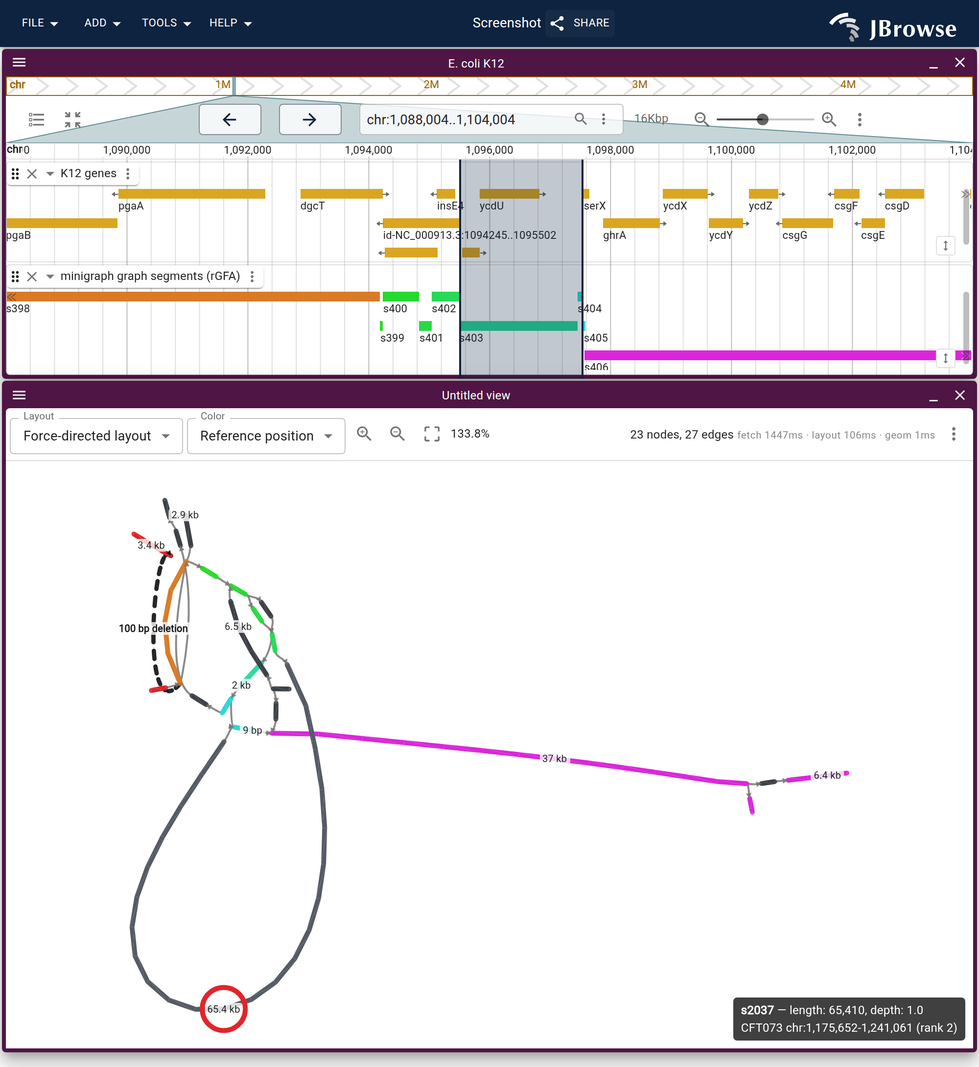
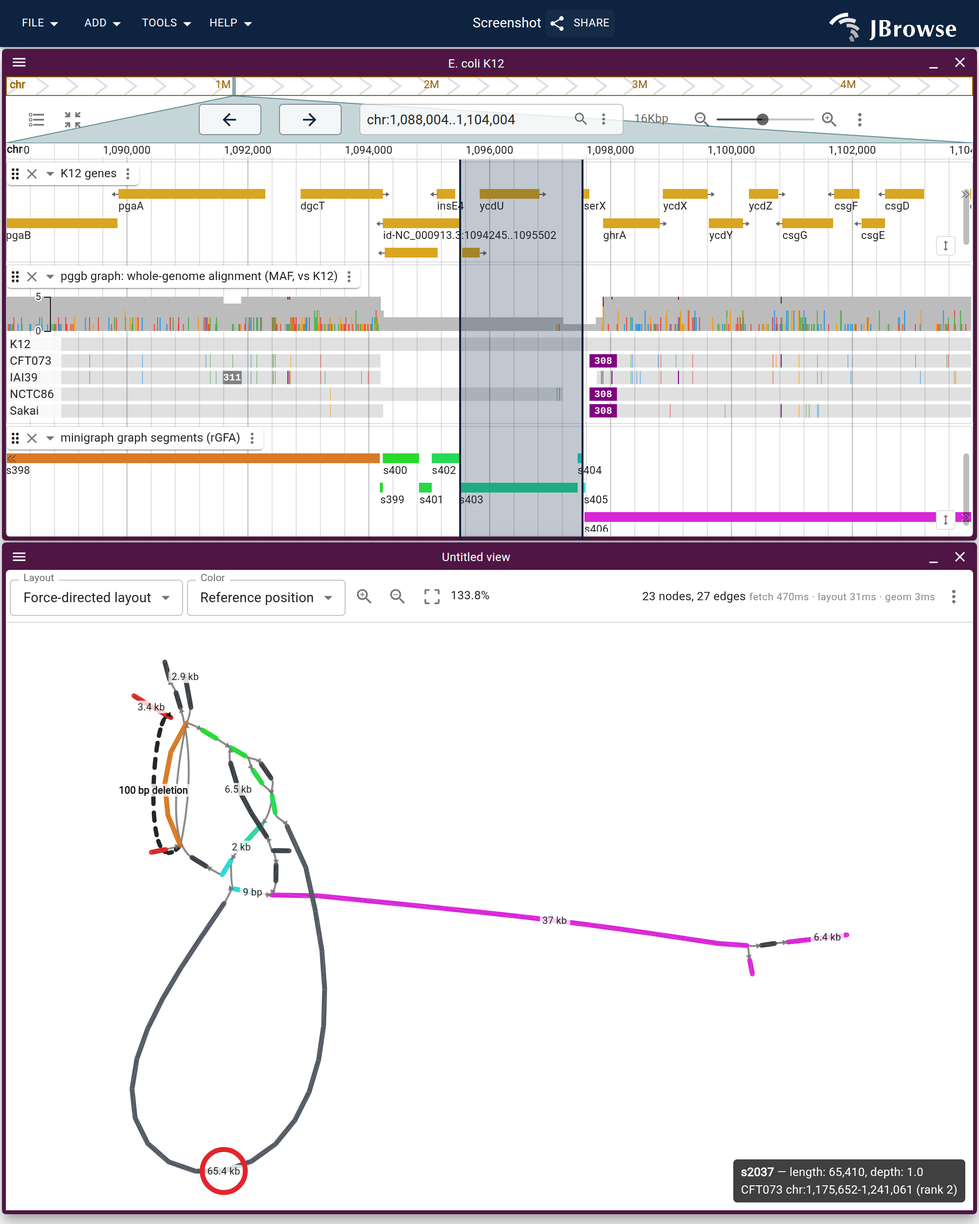
docs(figures): put the strain alignment beside the graph's claim in rgfa_hover_sync
Reviewer: "add maf track if it helps clarify this figure". It does. The
band the hover draws is the graph asserting that 65.4 kb of CFT073
attaches across 2.1 kb of K12, and pggb's whole-genome alignment of the
same five strains states the same event base by base from the other
side: over chr:1,094,245-1,097,564 the MAF blocks hold only K12 and
NCTC86, so CFT073, IAI39 and Sakai have no aligned bases across the band
while NCTC86 aligns straight through, and all five resume just past it
with a 308 bp insertion on three of them. Checked with tabix against the
hosted file, not read off the picture.

The lane is pggb's MAF on a figure drawn from the minigraph rGFA, which
is fine and is said in the spec: the alignment is between the strains
and does not depend on which graph is drawn. Same five rows in the same
order as the other E. coli figures.

Claude-Session: https://claude.ai/code/session_01TcfdgrcPWPN7HSGHfcRjTg

Changed region(s): [[0.0, 0.0, 1.0, 0.9982], [0.527, 0.7174, 0.868, 0.7798]]

diff --git a/website/src/lib/galleryLinks.generated.ts b/website/src/lib/galleryLinks.generated.ts
@@ -189,7 +189,7 @@ export const specSessionUrls: Record<string, string> = {
   "cancer_sv/multihop_split_view_steps": "?config=https%3A%2F%2Fjbrowse.org%2Fdemos%2Fcancer_sv%2Fconfig.json&session=spec-%7B%22views%22%3A%5B%7B%22type%22%3A%22LinearGenomeView%22%2C%22assembly%22%3A%22hg38%22%2C%22loc%22%3A%22chr3%3A25%2C357%2C600-25%2C361%2C000%22%2C%22tracks%22%3A%5B%7B%22trackId%22%3A%22ncbi_refseq_hg38%22%2C%22geneGlyphMode%22%3A%22longestCoding%22%2C%22height%22%3A60%7D%2C%7B%22trackId%22%3A%22COLO829_tumor_ont%22%2C%22showSoftClipping%22%3Atrue%2C%22height%22%3A150%2C%22featureHeight%22%3A1%7D%5D%7D%5D%7D&sessionName=Screenshot",
   "cancer_sv/derivative_autogenerated": "?config=https%3A%2F%2Fjbrowse.org%2Fdemos%2Fcancer_sv%2Fconfig.json&session=spec-%7B%22views%22%3A%5B%7B%22type%22%3A%22LinearGenomeView%22%2C%22assembly%22%3A%22hg38%22%2C%22loc%22%3A%22chr3%3A25%2C357%2C600-25%2C361%2C000%22%2C%22tracks%22%3A%5B%7B%22trackId%22%3A%22ncbi_refseq_hg38%22%2C%22geneGlyphMode%22%3A%22longestCoding%22%2C%22height%22%3A60%7D%2C%7B%22trackId%22%3A%22COLO829_tumor_ont%22%2C%22showSoftClipping%22%3Atrue%2C%22height%22%3A240%2C%22featureHeight%22%3A1%7D%5D%7D%5D%7D&sessionName=Screenshot",
   "cancer_sv/foldback_reconstruction": "?config=https%3A%2F%2Fjbrowse.org%2Fdemos%2Fcancer_sv%2Fconfig.json&session=spec-%7B%22views%22%3A%5B%7B%22type%22%3A%22LinearGenomeView%22%2C%22assembly%22%3A%22hg38%22%2C%22loc%22%3A%22chr9%3A28%2C030%2C000-28%2C036%2C000%22%2C%22tracks%22%3A%5B%7B%22trackId%22%3A%22ncbi_refseq_hg38%22%2C%22geneGlyphMode%22%3A%22longestCoding%22%2C%22height%22%3A60%7D%2C%7B%22trackId%22%3A%22COLO829_tumor_ont%22%2C%22showSoftClipping%22%3Atrue%2C%22height%22%3A260%2C%22featureHeight%22%3A1%7D%5D%7D%5D%7D&sessionName=Screenshot",
-  "cancer_sv/derivative_synteny": "?config=https%3A%2F%2Fjbrowse.org%2Fdemos%2Fcancer_sv%2Fconfig.json&session=spec-%7B%22sessionTracks%22%3A%5B%7B%22type%22%3A%22FeatureTrack%22%2C%22trackId%22%3A%22der3_genes%22%2C%22name%22%3A%22Reference%20genes%20projected%20onto%20the%20derivative%22%2C%22assemblyNames%22%3A%5B%22der3_RARB_BICC1_TRHDE%22%5D%2C%22adapter%22%3A%7B%22type%22%3A%22FromConfigAdapter%22%2C%22features%22%3A%5B%7B%22uniqueId%22%3A%22RARB.seg0%22%2C%22refName%22%3A%22der3_RARB_BICC1_TRHDE%22%2C%22start%22%3A0%2C%22end%22%3A32732%2C%22strand%22%3A1%2C%22type%22%3A%22gene%22%2C%22name%22%3A%22RARB%22%2C%22subfeatures%22%3A%5B%7B%22uniqueId%22%3A%22NM_001290216.3.seg0%22%2C%22refName%22%3A%22der3_RARB_BICC1_TRHDE%22%2C%22start%22%3A0%2C%22end%22%3A32732%2C%22strand%22%3A1%2C%22type%22%3A%22transcript%22%2C%22name%22%3A%22NM_001290216.3%22%7D%2C%7B%22uniqueId%22%3A%22NM_001290300.2.seg0%22%2C%22refName%22%3A%22der3_RARB_BICC1_TRHDE%22%2C%22start%22%3A13980%2C%22end%22%3A32732%2C%22strand%22%3A1%2C%22type%22%3A%22transcript%22%2C%22name%22%3A%22NM_001290300.2%22%2C%22subfeatures%22%3A%5B%7B%22uniqueId%22%3A%22exon%3ANM_001290300.2.1.seg0%22%2C%22refName%22%3A%22der3_RARB_BICC1_TRHDE%22%2C%22start%22%3A13980%2C%22end%22%3A14070%2C%22strand%22%3A1%2C%22type%22%3A%22exon%22%7D%2C%7B%22uniqueId%22%3A%22CDS%3ANM_001290300.2.1.seg0%22%2C%22refName%22%3A%22der3_RARB_BICC1_TRHDE%22%2C%22start%22%3A14042%2C%22end%22%3A14070%2C%22strand%22%3A1%2C%22type%22%3A%22CDS%22%7D%2C%7B%22uniqueId%22%3A%22start_codon%3ANM_001290300.2.1.seg0%22%2C%22refName%22%3A%22der3_RARB_BICC1_TRHDE%22%2C%22start%22%3A14042%2C%22end%22%3A14045%2C%22strand%22%3A1%2C%22type%22%3A%22start_codon%22%7D%5D%7D%5D%7D%2C%7B%22uniqueId%22%3A%22LOC124906342.seg0%22%2C%22refName%22%3A%22der3_RARB_BICC1_TRHDE%22%2C%22start%22%3A9171%2C%22end%22%3A9237%2C%22strand%22%3A1%2C%22type%22%3A%22gene%22%2C%22name%22%3A%22LOC124906342%22%2C%22subfeatures%22%3A%5B%7B%22uniqueId%22%3A%22XR_007096298.1.seg0%22%2C%22refName%22%3A%22der3_RARB_BICC1_TRHDE%22%2C%22start%22%3A9171%2C%22end%22%3A9237%2C%22strand%22%3A1%2C%22type%22%3A%22transcript%22%2C%22name%22%3A%22XR_007096298.1%22%2C%22subfeatures%22%3A%5B%7B%22uniqueId%22%3A%22exon%3AXR_007096298.1.1.seg0%22%2C%22refName%22%3A%22der3_RARB_BICC1_TRHDE%22%2C%22start%22%3A9171%2C%22end%22%3A9237%2C%22strand%22%3A1%2C%22type%22%3A%22exon%22%7D%5D%7D%5D%7D%2C%7B%22uniqueId%22%3A%22BICC1.seg1%22%2C%22refName%22%3A%22der3_RARB_BICC1_TRHDE%22%2C%22start%22%3A32732%2C%22end%22%3A32931%2C%22strand%22%3A1%2C%22type%22%3A%22gene%22%2C%22name%22%3A%22BICC1%22%2C%22subfeatures%22%3A%5B%7B%22uniqueId%22%3A%22XM_047425780.1.seg1%22%2C%22refName%22%3A%22der3_RARB_BICC1_TRHDE%22%2C%22start%22%3A32732%2C%22end%22%3A32931%2C%22strand%22%3A1%2C%22type%22%3A%22transcript%22%2C%22name%22%3A%22XM_047425780.1%22%7D%5D%7D%2C%7B%22uniqueId%22%3A%22FAM133CP.seg1%22%2C%22refName%22%3A%22der3_RARB_BICC1_TRHDE%22%2C%22start%22%3A32732%2C%22end%22%3A32803%2C%22strand%22%3A1%2C%22type%22%3A%22gene%22%2C%22name%22%3A%22FAM133CP%22%2C%22subfeatures%22%3A%5B%7B%22uniqueId%22%3A%22NR_027508.1.seg1%22%2C%22refName%22%3A%22der3_RARB_BICC1_TRHDE%22%2C%22start%22%3A32732%2C%22end%22%3A32803%2C%22strand%22%3A1%2C%22type%22%3A%22transcript%22%2C%22name%22%3A%22NR_027508.1%22%2C%22subfeatures%22%3A%5B%7B%22uniqueId%22%3A%22exon%3ANR_027508.1.1.seg1%22%2C%22refName%22%3A%22der3_RARB_BICC1_TRHDE%22%2C%22start%22%3A32732%2C%22end%22%3A32803%2C%22strand%22%3A1%2C%22type%22%3A%22exon%22%7D%5D%7D%5D%7D%2C%7B%22uniqueId%22%3A%22TRHDE.seg2%22%2C%22refName%22%3A%22der3_RARB_BICC1_TRHDE%22%2C%22start%22%3A32932%2C%22end%22%3A33115%2C%22strand%22%3A-1%2C%22type%22%3A%22gene%22%2C%22name%22%3A%22TRHDE%22%2C%22subfeatures%22%3A%5B%7B%22uniqueId%22%3A%22XM_017019244.2.seg2%22%2C%22refName%22%3A%22der3_RARB_BICC1_TRHDE%22%2C%22start%22%3A32932%2C%22end%22%3A33115%2C%22strand%22%3A-1%2C%22type%22%3A%22transcript%22%2C%22name%22%3A%22XM_017019244.2%22%7D%2C%7B%22uniqueId%22%3A%22XM_005268819.6.seg2%22%2C%22refName%22%3A%22der3_RARB_BICC1_TRHDE%22%2C%22start%22%3A32932%2C%22end%22%3A33115%2C%22strand%22%3A-1%2C%22type%22%3A%22transcript%22%2C%22name%22%3A%22XM_005268819.6%22%2C%22subfeatures%22%3A%5B%7B%22uniqueId%22%3A%22exon%3AXM_005268819.6.1.seg2%22%2C%22refName%22%3A%22der3_RARB_BICC1_TRHDE%22%2C%22start%22%3A32932%2C%22end%22%3A33115%2C%22strand%22%3A-1%2C%22type%22%3A%22exon%22%7D%2C%7B%22uniqueId%22%3A%22CDS%3AXM_005268819.6.1.seg2%22%2C%22refName%22%3A%22der3_RARB_BICC1_TRHDE%22%2C%22start%22%3A32932%2C%22end%22%3A33115%2C%22strand%22%3A-1%2C%22type%22%3A%22CDS%22%7D%5D%7D%5D%7D%2C%7B%22uniqueId%22%3A%22TRHDE-AS1.seg2%22%2C%22refName%22%3A%22der3_RARB_BICC1_TRHDE%22%2C%22start%22%3A32932%2C%22end%22%3A33115%2C%22strand%22%3A1%2C%22type%22%3A%22gene%22%2C%22name%22%3A%22TRHDE-AS1%22%2C%22subfeatures%22%3A%5B%7B%22uniqueId%22%3A%22NR_026837.1.seg2%22%2C%22refName%22%3A%22der3_RARB_BICC1_TRHDE%22%2C%22start%22%3A32932%2C%22end%22%3A33115%2C%22strand%22%3A1%2C%22type%22%3A%22transcript%22%2C%22name%22%3A%22NR_026837.1%22%2C%22subfeatures%22%3A%5B%7B%22uniqueId%22%3A%22exon%3ANR_026837.1.1.seg2%22%2C%22refName%22%3A%22der3_RARB_BICC1_TRHDE%22%2C%22start%22%3A32932%2C%22end%22%3A33115%2C%22strand%22%3A1%2C%22type%22%3A%22exon%22%7D%5D%7D%5D%7D%2C%7B%22uniqueId%22%3A%22RARB.seg3%22%2C%22refName%22%3A%22der3_RARB_BICC1_TRHDE%22%2C%22start%22%3A33126%2C%22end%22%3A39549%2C%22strand%22%3A-1%2C%22type%22%3A%22gene%22%2C%22name%22%3A%22RARB%22%2C%22subfeatures%22%3A%5B%7B%22uniqueId%22%3A%22NM_001290216.3.seg3%22%2C%22refName%22%3A%22der3_RARB_BICC1_TRHDE%22%2C%22start%22%3A33126%2C%22end%22%3A39549%2C%22strand%22%3A-1%2C%22type%22%3A%22transcript%22%2C%22name%22%3A%22NM_001290216.3%22%7D%5D%7D%5D%7D%7D%5D%2C%22views%22%3A%5B%7B%22type%22%3A%22LinearSyntenyView%22%2C%22displayName%22%3A%22Reconstructed%20derivative%20allele%20vs%20hg38%22%2C%22views%22%3A%5B%7B%22assembly%22%3A%22hg38%22%2C%22loc%22%3A%22chr3%3A25325000-25361000%20chr10%3A58716500-58718500%20chr12%3A72272000-72274500%22%2C%22tracks%22%3A%5B%7B%22trackId%22%3A%22ncbi_refseq_hg38%22%2C%22geneGlyphMode%22%3A%22longestCoding%22%2C%22height%22%3A95%7D%5D%7D%2C%7B%22assembly%22%3A%22der3_RARB_BICC1_TRHDE%22%2C%22loc%22%3A%22der3_RARB_BICC1_TRHDE%3A1-39%2C549%22%2C%22tracks%22%3A%5B%22der3_segments%22%2C%7B%22trackId%22%3A%22der3_genes%22%2C%22geneGlyphMode%22%3A%22longestCoding%22%2C%22height%22%3A220%7D%2C%7B%22trackId%22%3A%22reads_vs_der3%22%2C%22height%22%3A290%2C%22featureHeight%22%3A5%7D%5D%7D%5D%2C%22tracks%22%3A%5B%5B%22der3_vs_hg38%22%5D%5D%2C%22drawCurves%22%3Atrue%2C%22levelHeights%22%3A%5B200%5D%7D%5D%7D&sessionName=Screenshot",
+  "cancer_sv/derivative_synteny": "?config=https%3A%2F%2Fjbrowse.org%2Fdemos%2Fcancer_sv%2Fconfig.json&session=spec-%7B%22sessionTracks%22%3A%5B%7B%22type%22%3A%22FeatureTrack%22%2C%22trackId%22%3A%22der3_genes%22%2C%22name%22%3A%22Reference%20genes%20projected%20onto%20the%20derivative%22%2C%22assemblyNames%22%3A%5B%22der3_RARB_BICC1_TRHDE%22%5D%2C%22adapter%22%3A%7B%22type%22%3A%22FromConfigAdapter%22%2C%22features%22%3A%5B%7B%22uniqueId%22%3A%22RARB.seg0%22%2C%22refName%22%3A%22der3_RARB_BICC1_TRHDE%22%2C%22start%22%3A0%2C%22end%22%3A32732%2C%22strand%22%3A1%2C%22type%22%3A%22gene%22%2C%22name%22%3A%22RARB%22%2C%22subfeatures%22%3A%5B%7B%22uniqueId%22%3A%22NM_001290216.3.seg0%22%2C%22refName%22%3A%22der3_RARB_BICC1_TRHDE%22%2C%22start%22%3A0%2C%22end%22%3A32732%2C%22strand%22%3A1%2C%22type%22%3A%22transcript%22%2C%22name%22%3A%22NM_001290216.3%22%7D%2C%7B%22uniqueId%22%3A%22NM_001290300.2.seg0%22%2C%22refName%22%3A%22der3_RARB_BICC1_TRHDE%22%2C%22start%22%3A13980%2C%22end%22%3A32732%2C%22strand%22%3A1%2C%22type%22%3A%22transcript%22%2C%22name%22%3A%22NM_001290300.2%22%2C%22subfeatures%22%3A%5B%7B%22uniqueId%22%3A%22exon%3ANM_001290300.2.1.seg0%22%2C%22refName%22%3A%22der3_RARB_BICC1_TRHDE%22%2C%22start%22%3A13980%2C%22end%22%3A14070%2C%22strand%22%3A1%2C%22type%22%3A%22exon%22%7D%2C%7B%22uniqueId%22%3A%22CDS%3ANM_001290300.2.1.seg0%22%2C%22refName%22%3A%22der3_RARB_BICC1_TRHDE%22%2C%22start%22%3A14042%2C%22end%22%3A14070%2C%22strand%22%3A1%2C%22type%22%3A%22CDS%22%7D%2C%7B%22uniqueId%22%3A%22start_codon%3ANM_001290300.2.1.seg0%22%2C%22refName%22%3A%22der3_RARB_BICC1_TRHDE%22%2C%22start%22%3A14042%2C%22end%22%3A14045%2C%22strand%22%3A1%2C%22type%22%3A%22start_codon%22%7D%5D%7D%5D%7D%2C%7B%22uniqueId%22%3A%22LOC124906342.seg0%22%2C%22refName%22%3A%22der3_RARB_BICC1_TRHDE%22%2C%22start%22%3A9171%2C%22end%22%3A9237%2C%22strand%22%3A1%2C%22type%22%3A%22gene%22%2C%22name%22%3A%22LOC124906342%22%2C%22subfeatures%22%3A%5B%7B%22uniqueId%22%3A%22XR_007096298.1.seg0%22%2C%22refName%22%3A%22der3_RARB_BICC1_TRHDE%22%2C%22start%22%3A9171%2C%22end%22%3A9237%2C%22strand%22%3A1%2C%22type%22%3A%22transcript%22%2C%22name%22%3A%22XR_007096298.1%22%2C%22subfeatures%22%3A%5B%7B%22uniqueId%22%3A%22exon%3AXR_007096298.1.1.seg0%22%2C%22refName%22%3A%22der3_RARB_BICC1_TRHDE%22%2C%22start%22%3A9171%2C%22end%22%3A9237%2C%22strand%22%3A1%2C%22type%22%3A%22exon%22%7D%5D%7D%5D%7D%2C%7B%22uniqueId%22%3A%22BICC1.seg1%22%2C%22refName%22%3A%22der3_RARB_BICC1_TRHDE%22%2C%22start%22%3A32732%2C%22end%22%3A32931%2C%22strand%22%3A1%2C%22type%22%3A%22gene%22%2C%22name%22%3A%22BICC1%22%2C%22subfeatures%22%3A%5B%7B%22uniqueId%22%3A%22XM_047425780.1.seg1%22%2C%22refName%22%3A%22der3_RARB_BICC1_TRHDE%22%2C%22start%22%3A32732%2C%22end%22%3A32931%2C%22strand%22%3A1%2C%22type%22%3A%22transcript%22%2C%22name%22%3A%22XM_047425780.1%22%7D%5D%7D%2C%7B%22uniqueId%22%3A%22FAM133CP.seg1%22%2C%22refName%22%3A%22der3_RARB_BICC1_TRHDE%22%2C%22start%22%3A32732%2C%22end%22%3A32803%2C%22strand%22%3A1%2C%22type%22%3A%22gene%22%2C%22name%22%3A%22FAM133CP%22%2C%22subfeatures%22%3A%5B%7B%22uniqueId%22%3A%22NR_027508.1.seg1%22%2C%22refName%22%3A%22der3_RARB_BICC1_TRHDE%22%2C%22start%22%3A32732%2C%22end%22%3A32803%2C%22strand%22%3A1%2C%22type%22%3A%22transcript%22%2C%22name%22%3A%22NR_027508.1%22%2C%22subfeatures%22%3A%5B%7B%22uniqueId%22%3A%22exon%3ANR_027508.1.1.seg1%22%2C%22refName%22%3A%22der3_RARB_BICC1_TRHDE%22%2C%22start%22%3A32732%2C%22end%22%3A32803%2C%22strand%22%3A1%2C%22type%22%3A%22exon%22%7D%5D%7D%5D%7D%2C%7B%22uniqueId%22%3A%22TRHDE.seg2%22%2C%22refName%22%3A%22der3_RARB_BICC1_TRHDE%22%2C%22start%22%3A32932%2C%22end%22%3A33115%2C%22strand%22%3A-1%2C%22type%22%3A%22gene%22%2C%22name%22%3A%22TRHDE%22%2C%22subfeatures%22%3A%5B%7B%22uniqueId%22%3A%22XM_017019244.2.seg2%22%2C%22refName%22%3A%22der3_RARB_BICC1_TRHDE%22%2C%22start%22%3A32932%2C%22end%22%3A33115%2C%22strand%22%3A-1%2C%22type%22%3A%22transcript%22%2C%22name%22%3A%22XM_017019244.2%22%7D%2C%7B%22uniqueId%22%3A%22XM_005268819.6.seg2%22%2C%22refName%22%3A%22der3_RARB_BICC1_TRHDE%22%2C%22start%22%3A32932%2C%22end%22%3A33115%2C%22strand%22%3A-1%2C%22type%22%3A%22transcript%22%2C%22name%22%3A%22XM_005268819.6%22%2C%22subfeatures%22%3A%5B%7B%22uniqueId%22%3A%22exon%3AXM_005268819.6.1.seg2%22%2C%22refName%22%3A%22der3_RARB_BICC1_TRHDE%22%2C%22start%22%3A32932%2C%22end%22%3A33115%2C%22strand%22%3A-1%2C%22type%22%3A%22exon%22%7D%2C%7B%22uniqueId%22%3A%22CDS%3AXM_005268819.6.1.seg2%22%2C%22refName%22%3A%22der3_RARB_BICC1_TRHDE%22%2C%22start%22%3A32932%2C%22end%22%3A33115%2C%22strand%22%3A-1%2C%22type%22%3A%22CDS%22%7D%5D%7D%5D%7D%2C%7B%22uniqueId%22%3A%22TRHDE-AS1.seg2%22%2C%22refName%22%3A%22der3_RARB_BICC1_TRHDE%22%2C%22start%22%3A32932%2C%22end%22%3A33115%2C%22strand%22%3A1%2C%22type%22%3A%22gene%22%2C%22name%22%3A%22TRHDE-AS1%22%2C%22subfeatures%22%3A%5B%7B%22uniqueId%22%3A%22NR_026837.1.seg2%22%2C%22refName%22%3A%22der3_RARB_BICC1_TRHDE%22%2C%22start%22%3A32932%2C%22end%22%3A33115%2C%22strand%22%3A1%2C%22type%22%3A%22transcript%22%2C%22name%22%3A%22NR_026837.1%22%2C%22subfeatures%22%3A%5B%7B%22uniqueId%22%3A%22exon%3ANR_026837.1.1.seg2%22%2C%22refName%22%3A%22der3_RARB_BICC1_TRHDE%22%2C%22start%22%3A32932%2C%22end%22%3A33115%2C%22strand%22%3A1%2C%22type%22%3A%22exon%22%7D%5D%7D%5D%7D%2C%7B%22uniqueId%22%3A%22RARB.seg3%22%2C%22refName%22%3A%22der3_RARB_BICC1_TRHDE%22%2C%22start%22%3A33126%2C%22end%22%3A39549%2C%22strand%22%3A-1%2C%22type%22%3A%22gene%22%2C%22name%22%3A%22RARB%22%2C%22subfeatures%22%3A%5B%7B%22uniqueId%22%3A%22NM_001290216.3.seg3%22%2C%22refName%22%3A%22der3_RARB_BICC1_TRHDE%22%2C%22start%22%3A33126%2C%22end%22%3A39549%2C%22strand%22%3A-1%2C%22type%22%3A%22transcript%22%2C%22name%22%3A%22NM_001290216.3%22%7D%5D%7D%5D%7D%7D%5D%2C%22views%22%3A%5B%7B%22type%22%3A%22LinearSyntenyView%22%2C%22displayName%22%3A%22Reconstructed%20derivative%20allele%20vs%20hg38%22%2C%22views%22%3A%5B%7B%22assembly%22%3A%22hg38%22%2C%22loc%22%3A%22chr3%3A25325000-25361000%20chr10%3A58716500-58718500%20chr12%3A72272000-72274500%22%2C%22tracks%22%3A%5B%7B%22trackId%22%3A%22ncbi_refseq_hg38%22%2C%22geneGlyphMode%22%3A%22longestCoding%22%2C%22height%22%3A95%7D%5D%7D%2C%7B%22assembly%22%3A%22der3_RARB_BICC1_TRHDE%22%2C%22loc%22%3A%22der3_RARB_BICC1_TRHDE%3A1-39%2C549%22%2C%22tracks%22%3A%5B%22der3_segments%22%2C%7B%22trackId%22%3A%22der3_genes%22%2C%22geneGlyphMode%22%3A%22longestCoding%22%2C%22height%22%3A220%7D%2C%7B%22trackId%22%3A%22reads_vs_der3%22%2C%22height%22%3A290%2C%22featureHeight%22%3A5%7D%5D%7D%5D%2C%22tracks%22%3A%5B%5B%22der3_vs_hg38%22%5D%5D%2C%22drawCurves%22%3Atrue%2C%22colorBy%22%3A%22reference%22%2C%22levelHeights%22%3A%5B200%5D%7D%5D%7D&sessionName=Screenshot",
   "cancer_sv/derivative_inserts": "?config=https%3A%2F%2Fjbrowse.org%2Fdemos%2Fcancer_sv%2Fconfig.json&session=spec-%7B%22sessionTracks%22%3A%5B%7B%22type%22%3A%22FeatureTrack%22%2C%22trackId%22%3A%22der3_genes%22%2C%22name%22%3A%22Reference%20genes%20projected%20onto%20the%20derivative%22%2C%22assemblyNames%22%3A%5B%22der3_RARB_BICC1_TRHDE%22%5D%2C%22adapter%22%3A%7B%22type%22%3A%22FromConfigAdapter%22%2C%22features%22%3A%5B%7B%22uniqueId%22%3A%22RARB.seg0%22%2C%22refName%22%3A%22der3_RARB_BICC1_TRHDE%22%2C%22start%22%3A0%2C%22end%22%3A32732%2C%22strand%22%3A1%2C%22type%22%3A%22gene%22%2C%22name%22%3A%22RARB%22%2C%22subfeatures%22%3A%5B%7B%22uniqueId%22%3A%22NM_001290216.3.seg0%22%2C%22refName%22%3A%22der3_RARB_BICC1_TRHDE%22%2C%22start%22%3A0%2C%22end%22%3A32732%2C%22strand%22%3A1%2C%22type%22%3A%22transcript%22%2C%22name%22%3A%22NM_001290216.3%22%7D%2C%7B%22uniqueId%22%3A%22NM_001290300.2.seg0%22%2C%22refName%22%3A%22der3_RARB_BICC1_TRHDE%22%2C%22start%22%3A13980%2C%22end%22%3A32732%2C%22strand%22%3A1%2C%22type%22%3A%22transcript%22%2C%22name%22%3A%22NM_001290300.2%22%2C%22subfeatures%22%3A%5B%7B%22uniqueId%22%3A%22exon%3ANM_001290300.2.1.seg0%22%2C%22refName%22%3A%22der3_RARB_BICC1_TRHDE%22%2C%22start%22%3A13980%2C%22end%22%3A14070%2C%22strand%22%3A1%2C%22type%22%3A%22exon%22%7D%2C%7B%22uniqueId%22%3A%22CDS%3ANM_001290300.2.1.seg0%22%2C%22refName%22%3A%22der3_RARB_BICC1_TRHDE%22%2C%22start%22%3A14042%2C%22end%22%3A14070%2C%22strand%22%3A1%2C%22type%22%3A%22CDS%22%7D%2C%7B%22uniqueId%22%3A%22start_codon%3ANM_001290300.2.1.seg0%22%2C%22refName%22%3A%22der3_RARB_BICC1_TRHDE%22%2C%22start%22%3A14042%2C%22end%22%3A14045%2C%22strand%22%3A1%2C%22type%22%3A%22start_codon%22%7D%5D%7D%5D%7D%2C%7B%22uniqueId%22%3A%22LOC124906342.seg0%22%2C%22refName%22%3A%22der3_RARB_BICC1_TRHDE%22%2C%22start%22%3A9171%2C%22end%22%3A9237%2C%22strand%22%3A1%2C%22type%22%3A%22gene%22%2C%22name%22%3A%22LOC124906342%22%2C%22subfeatures%22%3A%5B%7B%22uniqueId%22%3A%22XR_007096298.1.seg0%22%2C%22refName%22%3A%22der3_RARB_BICC1_TRHDE%22%2C%22start%22%3A9171%2C%22end%22%3A9237%2C%22strand%22%3A1%2C%22type%22%3A%22transcript%22%2C%22name%22%3A%22XR_007096298.1%22%2C%22subfeatures%22%3A%5B%7B%22uniqueId%22%3A%22exon%3AXR_007096298.1.1.seg0%22%2C%22refName%22%3A%22der3_RARB_BICC1_TRHDE%22%2C%22start%22%3A9171%2C%22end%22%3A9237%2C%22strand%22%3A1%2C%22type%22%3A%22exon%22%7D%5D%7D%5D%7D%2C%7B%22uniqueId%22%3A%22BICC1.seg1%22%2C%22refName%22%3A%22der3_RARB_BICC1_TRHDE%22%2C%22start%22%3A32732%2C%22end%22%3A32931%2C%22strand%22%3A1%2C%22type%22%3A%22gene%22%2C%22name%22%3A%22BICC1%22%2C%22subfeatures%22%3A%5B%7B%22uniqueId%22%3A%22XM_047425780.1.seg1%22%2C%22refName%22%3A%22der3_RARB_BICC1_TRHDE%22%2C%22start%22%3A32732%2C%22end%22%3A32931%2C%22strand%22%3A1%2C%22type%22%3A%22transcript%22%2C%22name%22%3A%22XM_047425780.1%22%7D%5D%7D%2C%7B%22uniqueId%22%3A%22FAM133CP.seg1%22%2C%22refName%22%3A%22der3_RARB_BICC1_TRHDE%22%2C%22start%22%3A32732%2C%22end%22%3A32803%2C%22strand%22%3A1%2C%22type%22%3A%22gene%22%2C%22name%22%3A%22FAM133CP%22%2C%22subfeatures%22%3A%5B%7B%22uniqueId%22%3A%22NR_027508.1.seg1%22%2C%22refName%22%3A%22der3_RARB_BICC1_TRHDE%22%2C%22start%22%3A32732%2C%22end%22%3A32803%2C%22strand%22%3A1%2C%22type%22%3A%22transcript%22%2C%22name%22%3A%22NR_027508.1%22%2C%22subfeatures%22%3A%5B%7B%22uniqueId%22%3A%22exon%3ANR_027508.1.1.seg1%22%2C%22refName%22%3A%22der3_RARB_BICC1_TRHDE%22%2C%22start%22%3A32732%2C%22end%22%3A32803%2C%22strand%22%3A1%2C%22type%22%3A%22exon%22%7D%5D%7D%5D%7D%2C%7B%22uniqueId%22%3A%22TRHDE.seg2%22%2C%22refName%22%3A%22der3_RARB_BICC1_TRHDE%22%2C%22start%22%3A32932%2C%22end%22%3A33115%2C%22strand%22%3A-1%2C%22type%22%3A%22gene%22%2C%22name%22%3A%22TRHDE%22%2C%22subfeatures%22%3A%5B%7B%22uniqueId%22%3A%22XM_017019244.2.seg2%22%2C%22refName%22%3A%22der3_RARB_BICC1_TRHDE%22%2C%22start%22%3A32932%2C%22end%22%3A33115%2C%22strand%22%3A-1%2C%22type%22%3A%22transcript%22%2C%22name%22%3A%22XM_017019244.2%22%7D%2C%7B%22uniqueId%22%3A%22XM_005268819.6.seg2%22%2C%22refName%22%3A%22der3_RARB_BICC1_TRHDE%22%2C%22start%22%3A32932%2C%22end%22%3A33115%2C%22strand%22%3A-1%2C%22type%22%3A%22transcript%22%2C%22name%22%3A%22XM_005268819.6%22%2C%22subfeatures%22%3A%5B%7B%22uniqueId%22%3A%22exon%3AXM_005268819.6.1.seg2%22%2C%22refName%22%3A%22der3_RARB_BICC1_TRHDE%22%2C%22start%22%3A32932%2C%22end%22%3A33115%2C%22strand%22%3A-1%2C%22type%22%3A%22exon%22%7D%2C%7B%22uniqueId%22%3A%22CDS%3AXM_005268819.6.1.seg2%22%2C%22refName%22%3A%22der3_RARB_BICC1_TRHDE%22%2C%22start%22%3A32932%2C%22end%22%3A33115%2C%22strand%22%3A-1%2C%22type%22%3A%22CDS%22%7D%5D%7D%5D%7D%2C%7B%22uniqueId%22%3A%22TRHDE-AS1.seg2%22%2C%22refName%22%3A%22der3_RARB_BICC1_TRHDE%22%2C%22start%22%3A32932%2C%22end%22%3A33115%2C%22strand%22%3A1%2C%22type%22%3A%22gene%22%2C%22name%22%3A%22TRHDE-AS1%22%2C%22subfeatures%22%3A%5B%7B%22uniqueId%22%3A%22NR_026837.1.seg2%22%2C%22refName%22%3A%22der3_RARB_BICC1_TRHDE%22%2C%22start%22%3A32932%2C%22end%22%3A33115%2C%22strand%22%3A1%2C%22type%22%3A%22transcript%22%2C%22name%22%3A%22NR_026837.1%22%2C%22subfeatures%22%3A%5B%7B%22uniqueId%22%3A%22exon%3ANR_026837.1.1.seg2%22%2C%22refName%22%3A%22der3_RARB_BICC1_TRHDE%22%2C%22start%22%3A32932%2C%22end%22%3A33115%2C%22strand%22%3A1%2C%22type%22%3A%22exon%22%7D%5D%7D%5D%7D%2C%7B%22uniqueId%22%3A%22RARB.seg3%22%2C%22refName%22%3A%22der3_RARB_BICC1_TRHDE%22%2C%22start%22%3A33126%2C%22end%22%3A39549%2C%22strand%22%3A-1%2C%22type%22%3A%22gene%22%2C%22name%22%3A%22RARB%22%2C%22subfeatures%22%3A%5B%7B%22uniqueId%22%3A%22NM_001290216.3.seg3%22%2C%22refName%22%3A%22der3_RARB_BICC1_TRHDE%22%2C%22start%22%3A33126%2C%22end%22%3A39549%2C%22strand%22%3A-1%2C%22type%22%3A%22transcript%22%2C%22name%22%3A%22NM_001290216.3%22%7D%5D%7D%5D%7D%7D%5D%2C%22views%22%3A%5B%7B%22type%22%3A%22LinearSyntenyView%22%2C%22displayName%22%3A%22Two%20templated%20inserts%20join%20the%20chr3%20arms%22%2C%22views%22%3A%5B%7B%22assembly%22%3A%22hg38%22%2C%22loc%22%3A%22chr3%3A25358900-25359700%20chr10%3A58717380-58717740%20chr12%3A72273040-72273360%22%2C%22tracks%22%3A%5B%7B%22trackId%22%3A%22ncbi_refseq_hg38%22%2C%22geneGlyphMode%22%3A%22longestCoding%22%2C%22height%22%3A75%7D%2C%22hg38-ReferenceSequenceTrack%22%5D%7D%2C%7B%22assembly%22%3A%22der3_RARB_BICC1_TRHDE%22%2C%22loc%22%3A%22der3_RARB_BICC1_TRHDE%3A32%2C300-33%2C400%22%2C%22showAminoAcids%22%3Afalse%2C%22tracks%22%3A%5B%22der3_segments%22%2C%7B%22trackId%22%3A%22der3_genes%22%2C%22geneGlyphMode%22%3A%22longestCoding%22%2C%22height%22%3A130%7D%2C%22der3_RARB_BICC1_TRHDE-ReferenceSequenceTrack%22%2C%7B%22trackId%22%3A%22reads_vs_der3%22%2C%22height%22%3A250%2C%22featureHeight%22%3A5%7D%5D%7D%5D%2C%22tracks%22%3A%5B%5B%22der3_vs_hg38%22%5D%5D%2C%22drawCurves%22%3Atrue%2C%22levelHeights%22%3A%5B220%5D%7D%5D%7D&sessionName=Screenshot",
   "cancer_sv/split_view_from_breakend": "?config=https%3A%2F%2Fjbrowse.org%2Fdemos%2Fcancer_sv%2Fconfig.json&session=spec-%7B%22views%22%3A%5B%7B%22type%22%3A%22LinearGenomeView%22%2C%22assembly%22%3A%22hg38%22%2C%22loc%22%3A%22chr3%3A25%2C359%2C318-25%2C359%2C818%22%2C%22tracks%22%3A%5B%7B%22trackId%22%3A%22COLO829_somatic_sv%22%2C%22height%22%3A130%7D%2C%7B%22trackId%22%3A%22COLO829_tumor_ont%22%2C%22height%22%3A300%2C%22featureHeight%22%3A1%7D%5D%7D%5D%7D&sessionName=Screenshot",
   "cancer_sv/realigned_reads_reference": "?config=https%3A%2F%2Fjbrowse.org%2Fdemos%2Fcancer_sv%2Fconfig.json&session=spec-%7B%22views%22%3A%5B%7B%22type%22%3A%22BreakpointSplitView%22%2C%22displayName%22%3A%22RARB%20(chr3)%20-%20BICC1%20(chr10)%22%2C%22height%22%3A560%2C%22views%22%3A%5B%7B%22assembly%22%3A%22hg38%22%2C%22loc%22%3A%22chr3%3A25%2C359%2C380-25%2C359%2C760%22%2C%22tracks%22%3A%5B%7B%22trackId%22%3A%22COLO829_tumor_ont%22%2C%22showSoftClipping%22%3Atrue%2C%22featureHeight%22%3A2%2C%22height%22%3A280%7D%5D%7D%2C%7B%22assembly%22%3A%22hg38%22%2C%22loc%22%3A%22chr10%3A58%2C717%2C274-58%2C717%2C654%22%2C%22tracks%22%3A%5B%7B%22trackId%22%3A%22COLO829_tumor_ont%22%2C%22showSoftClipping%22%3Atrue%2C%22featureHeight%22%3A2%2C%22height%22%3A150%7D%5D%7D%5D%7D%5D%7D&sessionName=Screenshot",
@@ -279,7 +279,7 @@ export const specSessionUrls: Record<string, string> = {
   "pangenome/graph_context_hop1": "?config=test_data/graphgenomeview/config.json&session=spec-%7B%22sessionTracks%22%3A%5B%7B%22type%22%3A%22FeatureTrack%22%2C%22trackId%22%3A%22K12_genes%22%2C%22name%22%3A%22K12%20genes%22%2C%22assemblyNames%22%3A%5B%22K12%22%5D%2C%22adapter%22%3A%7B%22type%22%3A%22Gff3TabixAdapter%22%2C%22gffGzLocation%22%3A%7B%22uri%22%3A%22https%3A%2F%2Fjbrowse.org%2Fdemos%2Fecoli_pangenome%2FK12.gff.gz%22%7D%2C%22index%22%3A%7B%22location%22%3A%7B%22uri%22%3A%22https%3A%2F%2Fjbrowse.org%2Fdemos%2Fecoli_pangenome%2FK12.gff.gz.tbi%22%7D%7D%7D%7D%2C%7B%22type%22%3A%22FeatureTrack%22%2C%22trackId%22%3A%22ecoli_minigraph_segments%22%2C%22name%22%3A%22minigraph%20graph%20segments%20(rGFA)%22%2C%22assemblyNames%22%3A%5B%22K12%22%5D%2C%22adapter%22%3A%7B%22type%22%3A%22RgfaTabixAdapter%22%2C%22uri%22%3A%22https%3A%2F%2Fjbrowse.org%2Fdemos%2Fecoli_pangenome%2Fecoli_minigraph%22%7D%2C%22displayDefaults%22%3A%7B%22color%22%3A%22jexl%3Aget(feature%2C'rank')%3D%3D0%3F'rgb(52%2C152%2C219)'%3A'rgb(237%2C137%2C44)'%22%7D%7D%5D%2C%22views%22%3A%5B%7B%22type%22%3A%22LinearGenomeView%22%2C%22assembly%22%3A%22K12%22%2C%22loc%22%3A%22chr%3A1445000-1474500%22%2C%22tracks%22%3A%5B%7B%22trackId%22%3A%22K12_genes%22%2C%22type%22%3A%22LinearBasicDisplay%22%2C%22showOnlyGenes%22%3Atrue%2C%22displayMode%22%3A%22compact%22%2C%22showLabels%22%3A%22auto%22%2C%22height%22%3A60%7D%2C%7B%22trackId%22%3A%22ecoli_minigraph_segments%22%2C%22type%22%3A%22LinearBasicDisplay%22%2C%22showLabels%22%3A%22none%22%2C%22heightMode%22%3A%22grow%22%2C%22color%22%3A%22jexl%3Aget(feature%2C'rank')%3E0%20%3F%20'rgb(60%2C65%2C72)'%20%3A%20'hsl('%20%2B%20min(300%2C%20max(0%2C%20((get(feature%2C'start')%2Bget(feature%2C'end'))%2F2%20-%201445000)%20%2F%2029500%20*%20300))%20%2B%20'%2C70%25%2C50%25)'%22%7D%5D%7D%2C%7B%22type%22%3A%22GraphGenomeView%22%2C%22loadedTrackId%22%3A%22ecoli_minigraph_segments%22%2C%22loadedRegion%22%3A%7B%22refName%22%3A%22chr%22%2C%22assemblyName%22%3A%22K12%22%2C%22start%22%3A1445000%2C%22end%22%3A1474500%7D%2C%22layoutMode%22%3A%22force%22%2C%22colorScheme%22%3A%22reference-position%22%2C%22subgraphContext%22%3A1%2C%22bubbleSpread%22%3A%22compress%22%2C%22layoutQuality%22%3A4%7D%5D%7D&sessionName=Screenshot",
   "pangenome/hprc_lpa_kiv2": "?config=test_data/graphgenomeview/hprc.json&session=spec-%7B%22views%22%3A%5B%7B%22type%22%3A%22LinearGenomeView%22%2C%22assembly%22%3A%22hg38%22%2C%22loc%22%3A%22chr6%3A160%2C525%2C000-160%2C655%2C000%22%2C%22tracks%22%3A%5B%7B%22trackId%22%3A%22hg38_ncbiRefSeq_ucsc%22%2C%22type%22%3A%22LinearBasicDisplay%22%2C%22geneGlyphMode%22%3A%22longestCoding%22%2C%22displayMode%22%3A%22compact%22%2C%22height%22%3A70%7D%2C%7B%22trackId%22%3A%22hprc_minigraph_bubbles%22%2C%22type%22%3A%22LinearBasicDisplay%22%2C%22height%22%3A80%7D%2C%7B%22trackId%22%3A%22hprc_minigraph_segments%22%2C%22type%22%3A%22LinearBasicDisplay%22%2C%22showLabels%22%3A%22none%22%2C%22heightMode%22%3A%22grow%22%2C%22color%22%3A%22jexl%3Aget(feature%2C'rank')%3E0%20%3F%20'rgb(60%2C65%2C72)'%20%3A%20'hsl('%20%2B%20min(300%2C%20max(0%2C%20((get(feature%2C'start')%2Bget(feature%2C'end'))%2F2%20-%20160525000)%20%2F%20130000%20*%20300))%20%2B%20'%2C70%25%2C50%25)'%22%7D%5D%7D%2C%7B%22type%22%3A%22GraphGenomeView%22%2C%22loadedTrackId%22%3A%22hprc_minigraph_segments%22%2C%22loadedRegion%22%3A%7B%22refName%22%3A%22chr6%22%2C%22assemblyName%22%3A%22hg38%22%2C%22start%22%3A160525000%2C%22end%22%3A160655000%7D%2C%22layoutMode%22%3A%22force%22%2C%22colorScheme%22%3A%22reference-position%22%7D%5D%7D&sessionName=Screenshot",
   "pangenome/hprc_graph_vs_callset": "?config=test_data/graphgenomeview/hprc.json&session=spec-%7B%22views%22%3A%5B%7B%22type%22%3A%22LinearGenomeView%22%2C%22assembly%22%3A%22hg38%22%2C%22loc%22%3A%22chr6%3A32%2C510%2C000-32%2C600%2C000%22%2C%22highlight%22%3A%5B%226%3A32%2C514%2C842-32%2C529%2C438%22%5D%2C%22tracks%22%3A%5B%7B%22trackId%22%3A%22hg38_ncbiRefSeq_ucsc%22%2C%22type%22%3A%22LinearBasicDisplay%22%2C%22geneGlyphMode%22%3A%22longestCoding%22%2C%22displayMode%22%3A%22compact%22%2C%22height%22%3A60%7D%2C%7B%22trackId%22%3A%22hprc_minigraph_segments%22%2C%22type%22%3A%22LinearBasicDisplay%22%2C%22showLabels%22%3A%22none%22%2C%22heightMode%22%3A%22grow%22%2C%22color%22%3A%22jexl%3Aget(feature%2C'rank')%3E0%20%3F%20'rgb(60%2C65%2C72)'%20%3A%20'hsl('%20%2B%20min(300%2C%20max(0%2C%20((get(feature%2C'start')%2Bget(feature%2C'end'))%2F2%20-%2032510000)%20%2F%2090000%20*%20300))%20%2B%20'%2C70%25%2C50%25)'%22%7D%2C%7B%22trackId%22%3A%22hprc2_wave_grch38%22%2C%22type%22%3A%22LinearMultiSampleVariantDisplay%22%2C%22height%22%3A340%2C%22jexlFilters%22%3A%5B%22jexl%3Afeature.INFO.LV%5B0%5D%3D%3D0%20%26%26%20alleleLength(feature)%3E%3D50%22%5D%2C%22runClustering%22%3Atrue%7D%5D%7D%2C%7B%22type%22%3A%22GraphGenomeView%22%2C%22loadedTrackId%22%3A%22hprc_minigraph_segments%22%2C%22loadedRegion%22%3A%7B%22refName%22%3A%22chr6%22%2C%22assemblyName%22%3A%22hg38%22%2C%22start%22%3A32510000%2C%22end%22%3A32600000%7D%2C%22colorScheme%22%3A%22reference-position%22%7D%5D%7D&sessionName=Screenshot",
-  "pangenome/rgfa_hover_sync": "?config=test_data/graphgenomeview/config.json&session=spec-%7B%22sessionTracks%22%3A%5B%7B%22type%22%3A%22FeatureTrack%22%2C%22trackId%22%3A%22K12_genes%22%2C%22name%22%3A%22K12%20genes%22%2C%22assemblyNames%22%3A%5B%22K12%22%5D%2C%22adapter%22%3A%7B%22type%22%3A%22Gff3TabixAdapter%22%2C%22gffGzLocation%22%3A%7B%22uri%22%3A%22https%3A%2F%2Fjbrowse.org%2Fdemos%2Fecoli_pangenome%2FK12.gff.gz%22%7D%2C%22index%22%3A%7B%22location%22%3A%7B%22uri%22%3A%22https%3A%2F%2Fjbrowse.org%2Fdemos%2Fecoli_pangenome%2FK12.gff.gz.tbi%22%7D%7D%7D%7D%2C%7B%22type%22%3A%22FeatureTrack%22%2C%22trackId%22%3A%22ecoli_minigraph_segments%22%2C%22name%22%3A%22minigraph%20graph%20segments%20(rGFA)%22%2C%22assemblyNames%22%3A%5B%22K12%22%5D%2C%22adapter%22%3A%7B%22type%22%3A%22RgfaTabixAdapter%22%2C%22uri%22%3A%22https%3A%2F%2Fjbrowse.org%2Fdemos%2Fecoli_pangenome%2Fecoli_minigraph%22%7D%2C%22displayDefaults%22%3A%7B%22color%22%3A%22jexl%3Aget(feature%2C'rank')%3D%3D0%3F'rgb(52%2C152%2C219)'%3A'rgb(237%2C137%2C44)'%22%7D%7D%5D%2C%22views%22%3A%5B%7B%22type%22%3A%22LinearGenomeView%22%2C%22assembly%22%3A%22K12%22%2C%22loc%22%3A%22chr%3A1%2C088%2C000-1%2C104%2C000%22%2C%22tracks%22%3A%5B%7B%22trackId%22%3A%22K12_genes%22%2C%22type%22%3A%22LinearBasicDisplay%22%2C%22height%22%3A70%7D%2C%7B%22trackId%22%3A%22ecoli_minigraph_segments%22%2C%22type%22%3A%22LinearBasicDisplay%22%2C%22height%22%3A80%2C%22color%22%3A%22jexl%3Aget(feature%2C'rank')%3E0%20%3F%20'rgb(60%2C65%2C72)'%20%3A%20'hsl('%20%2B%20min(300%2C%20max(0%2C%20((get(feature%2C'start')%2Bget(feature%2C'end'))%2F2%20-%201088000)%20%2F%2016000%20*%20300))%20%2B%20'%2C70%25%2C50%25)'%22%7D%5D%7D%2C%7B%22type%22%3A%22GraphGenomeView%22%2C%22loadedTrackId%22%3A%22ecoli_minigraph_segments%22%2C%22loadedRegion%22%3A%7B%22refName%22%3A%22chr%22%2C%22assemblyName%22%3A%22K12%22%2C%22start%22%3A1088000%2C%22end%22%3A1104000%7D%2C%22colorScheme%22%3A%22reference-position%22%7D%5D%7D&sessionName=Screenshot",
+  "pangenome/rgfa_hover_sync": "?config=test_data/graphgenomeview/config.json&session=spec-%7B%22sessionTracks%22%3A%5B%7B%22type%22%3A%22FeatureTrack%22%2C%22trackId%22%3A%22K12_genes%22%2C%22name%22%3A%22K12%20genes%22%2C%22assemblyNames%22%3A%5B%22K12%22%5D%2C%22adapter%22%3A%7B%22type%22%3A%22Gff3TabixAdapter%22%2C%22gffGzLocation%22%3A%7B%22uri%22%3A%22https%3A%2F%2Fjbrowse.org%2Fdemos%2Fecoli_pangenome%2FK12.gff.gz%22%7D%2C%22index%22%3A%7B%22location%22%3A%7B%22uri%22%3A%22https%3A%2F%2Fjbrowse.org%2Fdemos%2Fecoli_pangenome%2FK12.gff.gz.tbi%22%7D%7D%7D%7D%2C%7B%22type%22%3A%22FeatureTrack%22%2C%22trackId%22%3A%22ecoli_minigraph_segments%22%2C%22name%22%3A%22minigraph%20graph%20segments%20(rGFA)%22%2C%22assemblyNames%22%3A%5B%22K12%22%5D%2C%22adapter%22%3A%7B%22type%22%3A%22RgfaTabixAdapter%22%2C%22uri%22%3A%22https%3A%2F%2Fjbrowse.org%2Fdemos%2Fecoli_pangenome%2Fecoli_minigraph%22%7D%2C%22displayDefaults%22%3A%7B%22color%22%3A%22jexl%3Aget(feature%2C'rank')%3D%3D0%3F'rgb(52%2C152%2C219)'%3A'rgb(237%2C137%2C44)'%22%7D%7D%2C%7B%22type%22%3A%22MafTrack%22%2C%22trackId%22%3A%22ecoli_pggb_maf%22%2C%22name%22%3A%22pggb%20graph%3A%20whole-genome%20alignment%20(MAF%2C%20vs%20K12)%22%2C%22assemblyNames%22%3A%5B%22K12%22%5D%2C%22adapter%22%3A%7B%22type%22%3A%22MafTabixAdapter%22%2C%22samples%22%3A%5B%22K12%22%2C%22Sakai%22%2C%22CFT073%22%2C%22NCTC86%22%2C%22IAI39%22%5D%2C%22uri%22%3A%22https%3A%2F%2Fjbrowse.org%2Fdemos%2Fecoli_pangenome%2Fecoli_pggb.maf.bed.gz%22%7D%7D%5D%2C%22views%22%3A%5B%7B%22type%22%3A%22LinearGenomeView%22%2C%22assembly%22%3A%22K12%22%2C%22loc%22%3A%22chr%3A1%2C088%2C000-1%2C104%2C000%22%2C%22tracks%22%3A%5B%7B%22trackId%22%3A%22K12_genes%22%2C%22type%22%3A%22LinearBasicDisplay%22%2C%22height%22%3A70%7D%2C%7B%22trackId%22%3A%22ecoli_pggb_maf%22%2C%22type%22%3A%22LinearMafDisplay%22%2C%22layout%22%3A%5B%7B%22name%22%3A%22K12%22%7D%2C%7B%22name%22%3A%22CFT073%22%7D%2C%7B%22name%22%3A%22IAI39%22%7D%2C%7B%22name%22%3A%22NCTC86%22%7D%2C%7B%22name%22%3A%22Sakai%22%7D%5D%2C%22height%22%3A130%7D%2C%7B%22trackId%22%3A%22ecoli_minigraph_segments%22%2C%22type%22%3A%22LinearBasicDisplay%22%2C%22height%22%3A80%2C%22color%22%3A%22jexl%3Aget(feature%2C'rank')%3E0%20%3F%20'rgb(60%2C65%2C72)'%20%3A%20'hsl('%20%2B%20min(300%2C%20max(0%2C%20((get(feature%2C'start')%2Bget(feature%2C'end'))%2F2%20-%201088000)%20%2F%2016000%20*%20300))%20%2B%20'%2C70%25%2C50%25)'%22%7D%5D%7D%2C%7B%22type%22%3A%22GraphGenomeView%22%2C%22loadedTrackId%22%3A%22ecoli_minigraph_segments%22%2C%22loadedRegion%22%3A%7B%22refName%22%3A%22chr%22%2C%22assemblyName%22%3A%22K12%22%2C%22start%22%3A1088000%2C%22end%22%3A1104000%7D%2C%22colorScheme%22%3A%22reference-position%22%7D%5D%7D&sessionName=Screenshot",
   "pangenome/rgfa_launch_out_menu": "?config=test_data/graphgenomeview/ecoli_pangenome.json&session=spec-%7B%22views%22%3A%5B%7B%22id%22%3A%22launch_out_graph%22%2C%22type%22%3A%22GraphGenomeView%22%2C%22loadedTrackId%22%3A%22ecoli_minigraph_segments%22%2C%22loadedRegion%22%3A%7B%22refName%22%3A%22chr%22%2C%22assemblyName%22%3A%22K12%22%2C%22start%22%3A4400000%2C%22end%22%3A4450000%7D%2C%22layoutMode%22%3A%22force%22%2C%22colorScheme%22%3A%22stable-rank%22%7D%5D%7D&sessionName=Screenshot",
   "pangenome/rgfa_strain_launch": "?config=test_data/graphgenomeview/ecoli_pangenome.json&session=spec-%7B%22views%22%3A%5B%7B%22id%22%3A%22pks_graph%22%2C%22type%22%3A%22GraphGenomeView%22%2C%22loadedTrackId%22%3A%22ecoli_minigraph_segments%22%2C%22loadedRegion%22%3A%7B%22refName%22%3A%22chr%22%2C%22assemblyName%22%3A%22K12%22%2C%22start%22%3A2056000%2C%22end%22%3A2064000%7D%2C%22layoutMode%22%3A%22force%22%2C%22colorScheme%22%3A%22stable-rank%22%7D%5D%7D&sessionName=Screenshot",
   "cookbook_color_by_strand": "?config=test_data/config_demo.json&session=spec-%7B%22views%22%3A%5B%7B%22type%22%3A%22LinearGenomeView%22%2C%22assembly%22%3A%22hg38%22%2C%22loc%22%3A%22chr17%3A7%2C400%2C000-7%2C700%2C000%22%2C%22tracks%22%3A%5B%7B%22trackId%22%3A%22ncbi_refseq_109_hg38%22%2C%22height%22%3A260%2C%22color%22%3A%22jexl%3Afeature.strand%3D%3D1%3F'%231f77b4'%3A'%23d62728'%22%7D%5D%7D%5D%7D&sessionName=Screenshot",

diff --git a/website/scripts/specs/graph.ts b/website/scripts/specs/graph.ts
@@ -935,7 +935,11 @@ const SV_FILTER = ['jexl:feature.INFO.LV[0]==0 && alleleLength(feature)>=50']
 // pangenome/rgfa_segment_neighbourhood, whose subject IS rank.
 function ecoliHoverSession() {
   return sessionSpec(CONFIG, {
-    sessionTracks: [K12_GENES_SESSION_TRACK, ECOLI_SEGMENTS_SESSION_TRACK],
+    sessionTracks: [
+      K12_GENES_SESSION_TRACK,
+      ECOLI_SEGMENTS_SESSION_TRACK,
+      PGGB_MAF_SESSION_TRACK,
+    ],
     views: [
       {
         type: 'LinearGenomeView',
@@ -943,6 +947,24 @@ function ecoliHoverSession() {
         loc: PATHS_WINDOW,
         tracks: [
           { trackId: 'K12_genes', type: 'LinearBasicDisplay', height: 70 },
+          // THE ALIGNMENT, BESIDE THE GRAPH'S ANSWER (reviewer: "add maf track
+          // if it helps clarify this figure"). The band the hover draws says
+          // the graph attaches 65.4 kb of CFT073 across 2.1 kb of K12; a
+          // whole-genome alignment of the same five strains says the same
+          // event base by base, as CFT073's row dropping out over exactly that
+          // interval. It is pggb's MAF rather than minigraph's own output —
+          // this figure is on the rGFA graph, but the alignment is between the
+          // strains and is the same regardless of which graph is drawn.
+          //
+          // Same five rows in the same order as the other E. coli figures'
+          // lanes (PGGB_STRAIN_ROWS), so a strain sits in the same place on
+          // every page.
+          {
+            trackId: PGGB_MAF_TRACK,
+            type: 'LinearMafDisplay',
+            layout: PGGB_STRAIN_ROWS,
+            height: 130,
+          },
           {
             trackId: ECOLI_SEGMENTS_TRACK,
             type: 'LinearBasicDisplay',
@@ -3599,8 +3621,8 @@ export const graphSpecs: ScreenshotSpec[] = [
     viewportWidth: 1000,
     // the graph pane sizes itself to its drawing, and a force drawing is about
     // as tall as it is wide where the row stack was flat — 600px of pane under
-    // the linear view rather than 260
-    viewportHeight: 1090,
+    // the linear view rather than 260. Plus the MAF lane and its header.
+    viewportHeight: 1250,
     // The graph's own hover tooltip stays: it names the node and gives the
     // coordinates on the assembly that contributed it, which is the other half
     // of the correspondence the band shows. spec.hideTooltip does not reach it;

diff --git a/website/docs/user_guides/graph_genome_view.md b/website/docs/user_guides/graph_genome_view.md
@@ -299,7 +299,7 @@ The reverse works from any track, not just the graph's own segments. A gene
 gives only a coordinate, and that is enough: rGFA segments do not overlap on a
 stable sequence, so one backbone segment covers it.
 
-<Figure caption="Hovering CFT073's allele in the graph (circled) highlights the reference interval it occupies in the linear view above, across both the gene track and the segments track. That interval is the 2 kb of K12 between the backbone segments the allele leaves and rejoins, so the node is a non-reference insertion: 65.4 kb of sequence where the reference has 2.1 kb." src="/img/pangenome/rgfa_hover_sync.png" />
+<Figure caption="Hovering CFT073's allele in the graph (circled) highlights the reference interval it occupies in the linear view above, across every track there. That interval is the 2 kb of K12 between the backbone segments the allele leaves and rejoins, so the node is a non-reference insertion: 65.4 kb of sequence where the reference has 2.1 kb. The alignment lane says the same event from the other side: CFT073 has no aligned bases across the band, and neither do IAI39 or Sakai, while NCTC86 aligns straight through it." src="/img/pangenome/rgfa_hover_sync.png" />
 
 The same event drawn as an alignment rather than as a graph is a synteny gap,
 which is what the [all-vs-all tutorial](/docs/tutorials/allvsall_synteny) puts
